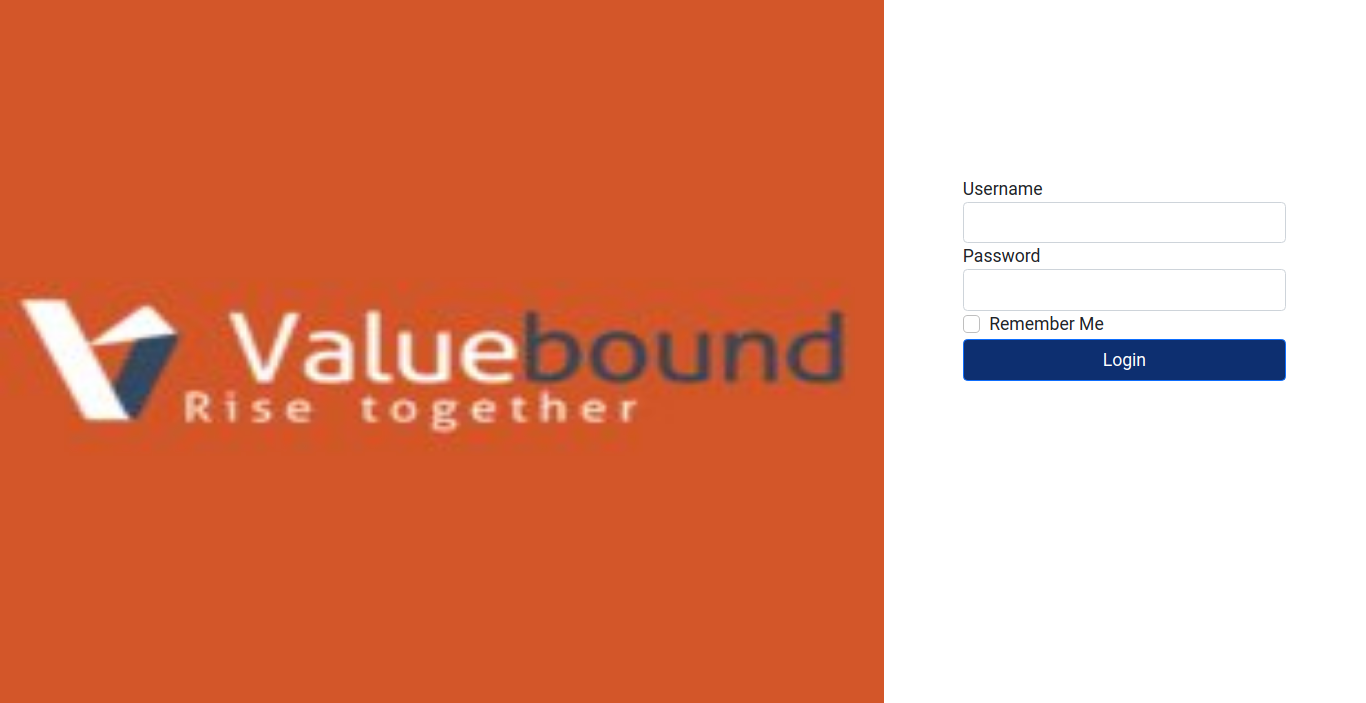
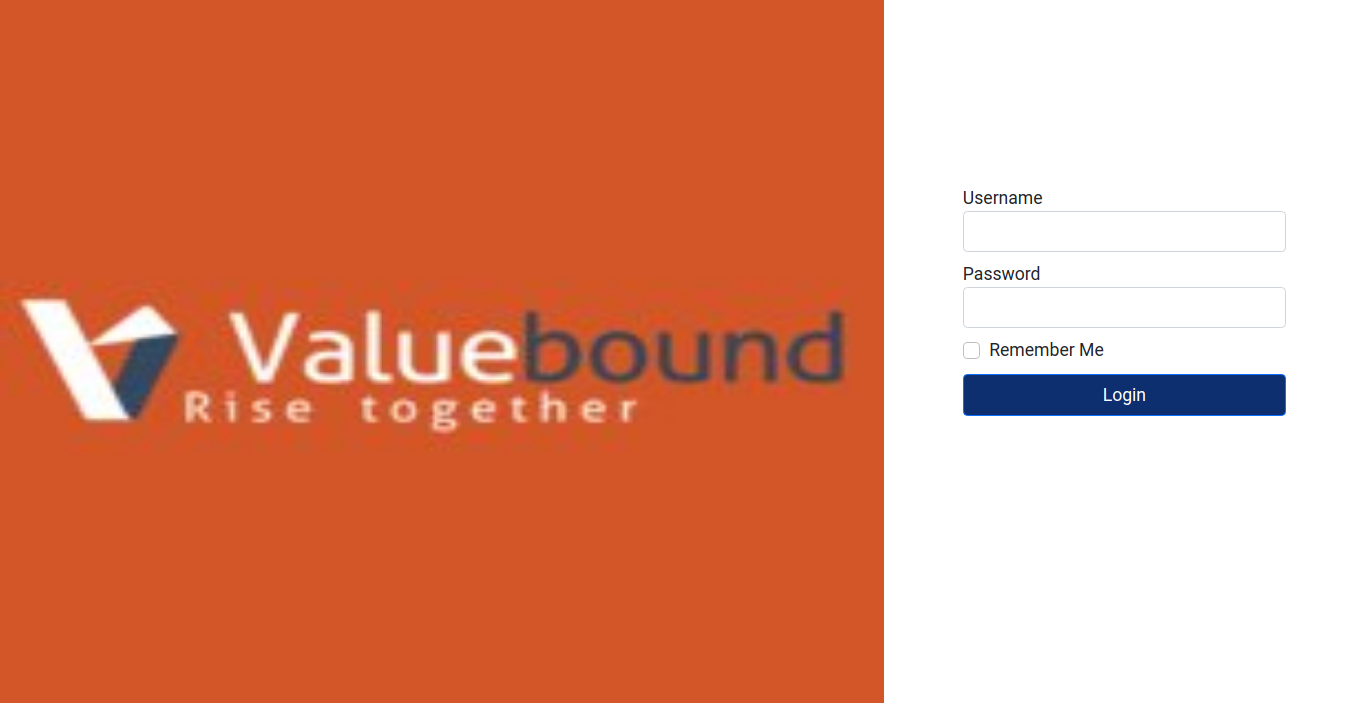
FEAT-0001 | Neelakanta Gouda Patil | updated responsive user login page

Changed region(s): [[0.7072, 0.4481, 0.9531, 0.5974], [0.7072, 0.3286, 0.7687, 0.4182], [0.7072, 0.239, 0.7687, 0.2987]]

diff --git a/index.html b/index.html
@@ -16,15 +16,15 @@
         <div class="row">
             <div class="col-md-4 order-md-2">
                 <form>
-                    <div class="form-group">
+                    <div class="form-group pt-2">
                       <label for="username">Username</label>
-                      <input type="text" class="form-control" id="username" minlength="5" maxlength="10">
+                      <input type="text" class="form-control" id="username" minlength="5" maxlength="10" required>
                     </div>
-                    <div class="form-group">
+                    <div class="form-group pt-2">
                       <label for="pass">Password</label>
-                      <input type="password" class="form-control" id="pass" minlength="10" maxlength="15">
+                      <input type="password" class="form-control" id="pass" minlength="10" maxlength="15" required>
                     </div>
-                    <div class="form-group form-check">
+                    <div class="form-group form-check pt-2 pb-2">
                       <input type="checkbox" class="form-check-input" id="rememberMe">
                       <label class="form-check-label" for="rememberMe">Remember Me</label>
                     </div>
